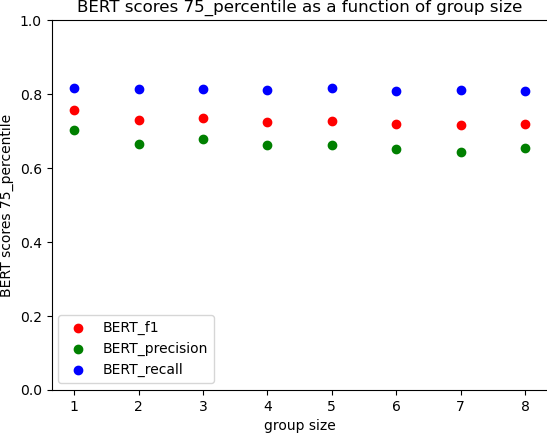
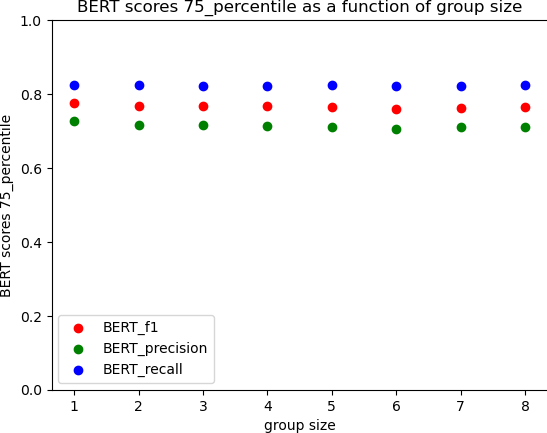
Created plots for the second part of the experiments

diff --git a/evaluation/save_plots.py b/evaluation/save_plots.py
@@ -19,7 +19,7 @@ plt.autoscale(False)
 
 def experiment_filter(exp: APIExperiment) -> bool:
     try:
-        return get_parameter(exp, "answer_length_multiplier") in (None, "2")
+        return get_parameter(exp, "answer_length_multiplier") == "1.25"
     except RuntimeError:
         return False
 
@@ -131,6 +131,7 @@ def plot_duration():
 
 
 if __name__ == "__main__":
+    print("started")
     for curr_stat_name in stat_names:
         generate_plot(curr_stat_name)
     plot_duration()
